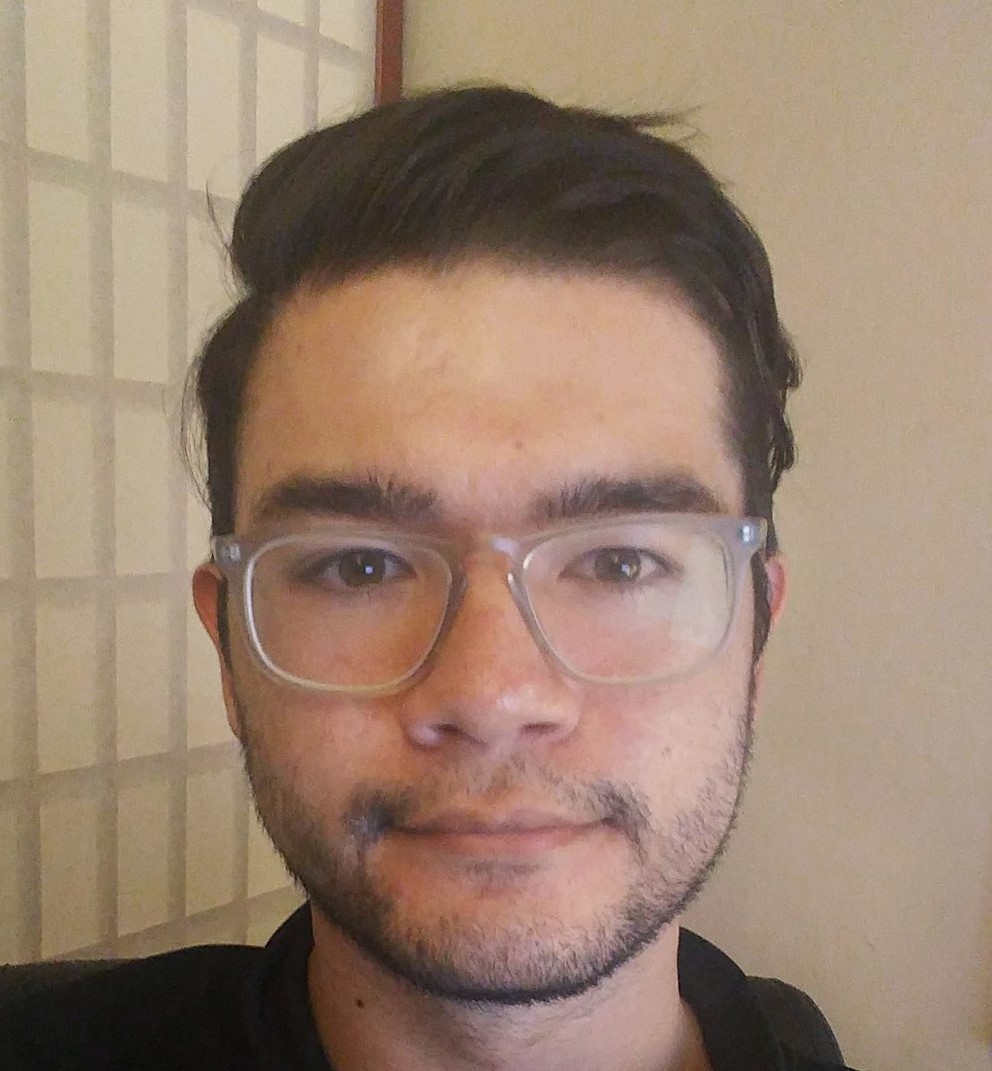
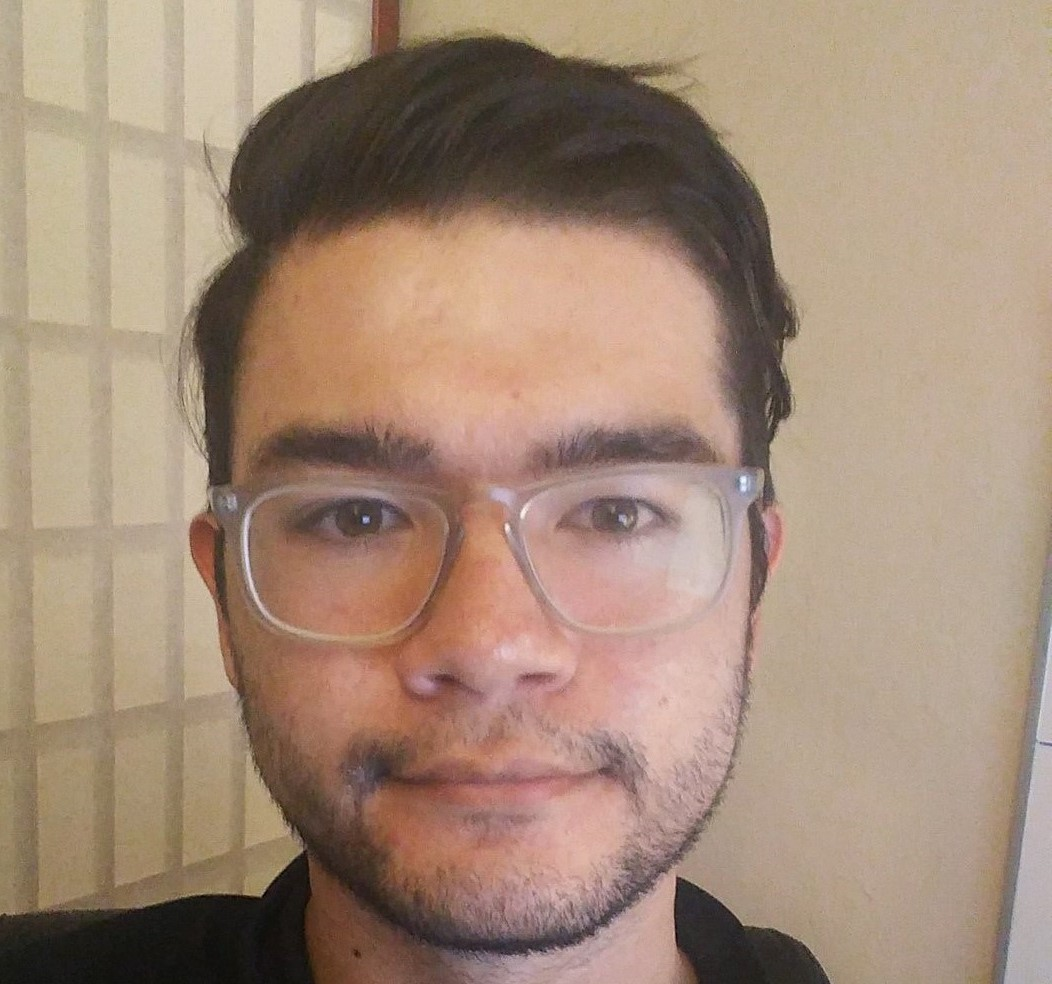
added text

diff --git a/index.html b/index.html
@@ -24,7 +24,7 @@
         Hey, I'm Phillip. I'm pursuing my bachelors in software engineering.
         I am a self-motivated programmer, and I love learning about new technologies.
       </p>
-      <p>Some technologies I have worked with are <a href="google.com">Django</a>, <a href="google.com">AWS</a>, and <a href="google.com">Wordpress</a>.</p>
+      <p>Some technologies I have worked with are <a href="https://facebook.github.io/react/">React.js</a>, <a href="https://nodejs.org/en/">Node.js</a>, <a href="https://www.djangoproject.com/">Django</a>, and<a href="https://wordpress.com/">WordPress</a>.</p>
       <p>
         Have a look through some of my projects. Learn more about me, 
         and discover why you should hire me.
@@ -59,9 +59,9 @@
         Hey, I'm a software engineer.
         I am focusing my efforts in web technologies. I work well with both front-end and back-end.<br/><br/>What I'm up to recently:
         <ul>
-          <li>Learning from classes online on udemy and udacity</li>
-          <li>Working on this portfolio website using Pug, SASS, and CoffeeScript</li>
-          <li>Dabbling in DevOps technologies</li>
+          <li>Attending classes are San Jose State University, and also learning from massive open online courses from udemy.com</li>
+          <li>Spending a lot of time developing my csgo_match website. I spent all summer coding it, and there's still a ways to go. Check it out!</li>
+          <li>Dabbling in DevOps technologies, and machine learning</li>
           <li>Spending time outdoors in nature</li>
         </ul></span>
     </div>
@@ -85,11 +85,19 @@
           <div class="meter"><span style="width: 0%"></span></div>
         </li>
         <li>
+          <div class="language">C++</div>
+          <div class="meter"><span style="width: 0%"></span></div>
+        </li>
+        <li>
           <div class="language">PHP</div>
           <div class="meter"><span style="width: 0%"></span></div>
         </li>
         <li>
           <div class="language">HTML+CSS</div>
+          <div class="meter"><span style="width: 0%"></span></div>
+        </li>
+        <li>
+          <div class="language">Scala</div>
           <div class="meter"><span style="width: 0%"></span></div>
         </li>
       </ul>

diff --git a/assets/coffeescripts/js/portfolio.js b/assets/coffeescripts/js/portfolio.js
@@ -8,11 +8,13 @@
 
   codeLevels = {
     "Python": "85%",
-    "Javascript": "70%",
-    "Java": "50%",
-    "C": "45%",
-    "PHP": "20%",
-    "HTML+CSS": "90%"
+    "Javascript": "90%",
+    "Java": "75%",
+    "C": "50%",
+    "C++": "70%",
+    "PHP": "30%",
+    "HTML+CSS": "90%",
+    "Scala": "30%"
   }
 
 //setting page back to defaults
@@ -34,7 +36,7 @@ var clickCount = 0;
     boxes.forEach(function(box, index){
       if(parent.innerText === box.innerText){
         if(clickCount%2 === 0){
-          parent.style.cssText= "height:400px;transition: height 0.2s linear 0.8s;";
+          parent.style.cssText= "height:500px;transition: height 0.2s linear 0.8s;";
           setTimeout(function(){
             parent.querySelector(".text").style.cssText = "display: inline-block;animation: fadeIn 0.8s linear;";
             parent.querySelector("span").classList.remove("fa-expand");

diff --git a/assets/css/main.css b/assets/css/main.css
@@ -2,10 +2,10 @@
 .profilePic {
   display: inline-block;
   float: left;
-  background-image: url('../images/profile-pic.jpg?1498031840');
-  background-size: contain;
-  width: 132px;
-  height: 132px;
+  background-image: url('../images/profile-pic.jpg?1504595220');
+  background-size: cover;
+  width: 126.24px;
+  height: 118.08px;
   border-radius: 50%;
   opacity: 0;
   animation: slideDown 1.2s ease-in-out forwards;
@@ -16,11 +16,12 @@
 /* line 18, ../compass/scss/partials/_profilePic.scss */
 .picBorder {
   margin: 0 auto;
-  width: 132px;
-  height: 132px;
+  width: 126.24px;
+  height: 118.08px;
   border-radius: 50%;
   box-shadow: 0px 0px 10px;
   animation: colorchange-shadow 15s infinite linear alternate;
+  transform: scale(1.06);
 }
 
 /* line 3, ../compass/scss/partials/_profileName.scss */

diff --git a/assets/compass/scss/partials/_profilePic.scss b/assets/compass/scss/partials/_profilePic.scss
@@ -5,7 +5,7 @@
   // margin: $auto;
   float: left;
   background-image: image-url($profile);
-  background-size: contain;
+  background-size: cover;
   width: image-width($profile) * $profile-scale;
   height: image-height($profile) * $profile-scale;
   border-radius: $profile-radius;
@@ -22,4 +22,5 @@
   border-radius: $profile-radius;
   box-shadow: 0px 0px 10px;
   animation: colorchange-shadow 15s infinite linear alternate;
+  transform: scale(1.06);
 }

diff --git a/assets/compass/scss/partials/_variables.scss b/assets/compass/scss/partials/_variables.scss
@@ -19,5 +19,5 @@ $t-size: 20px;
 
 //images
 $profile: "profile-pic.jpg";
-$profile-scale: .22;
+$profile-scale: .12;
 $profile-radius: 50%;
